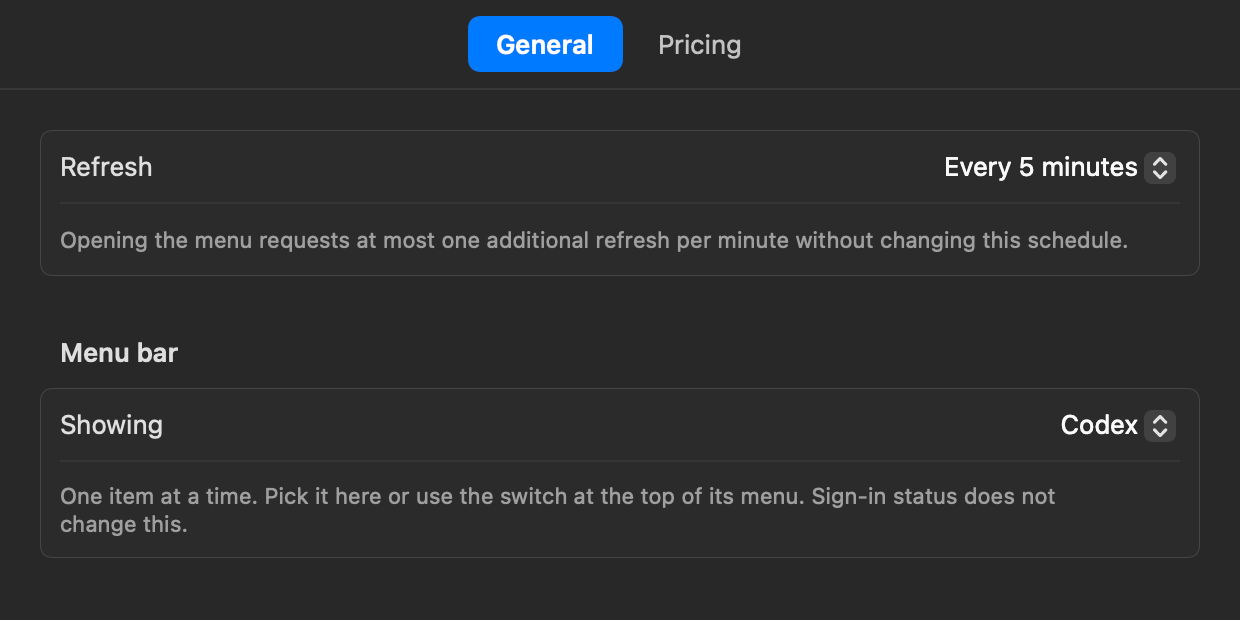
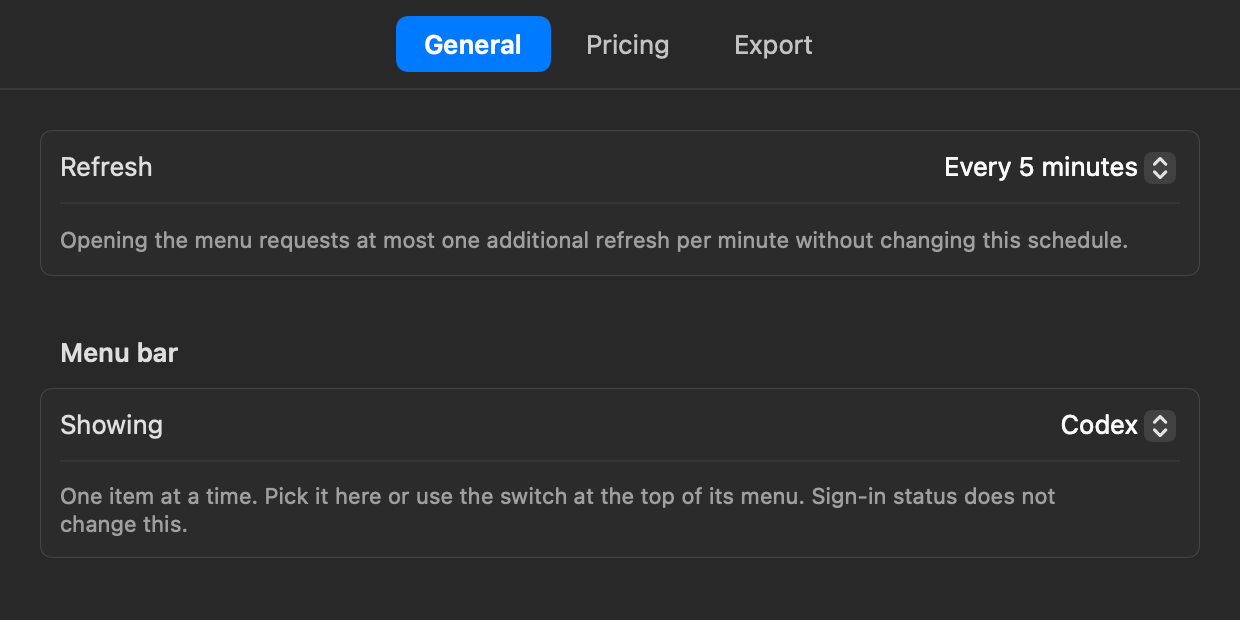
docs: refine bilingual READMEs and refresh settings screenshot (#41)
Tighten and align the English and Chinese READMEs, correct quota wording, and refresh the General settings screenshot.

Changed region(s): [[0.3065, 0.0, 0.6742, 0.1226]]

diff --git a/README.md b/README.md
@@ -1,5 +1,5 @@
 <p align="center">
-  <img src="Resources/AppIcon.png" alt="QuotaBar app logo" width="128">
+  <img src="Resources/AppIcon.png" alt="QuotaBar app logo" width="96">
 </p>
 
 <h1 align="center">QuotaBar</h1>
@@ -11,26 +11,24 @@
 
 A macOS menu bar app for checking Codex and Claude quota, reset times, local token usage, and estimated cost.
 
-[Install](#install) · [First launch](#first-launch) · [Quota](#how-quota-tracking-works) · [Cost](#how-cost-tracking-works) · [Reports](#exporting-a-usage-report) · [Development](#build-and-develop) · [Troubleshooting](#troubleshooting)
+[Install](#install) · [First launch](#first-launch) · [Quota](#how-quota-tracking-works) · [Cost](#how-cost-tracking-works) · [Reports](#exporting-a-usage-report) · [Pricing](#editing-model-prices) · [Development](#build-and-develop) · [Troubleshooting](#troubleshooting)
 
 <p align="center">
   <img src="docs/images/hero.png" width="620" alt="Claude and Codex quota cards rendered with sample data">
 </p>
 
-Screenshots and animations use sample data, including model names, quota, and costs. View the card in [dark](docs/images/interactions/main-dark.png) or [light](docs/images/interactions/main-light.png) appearance.
+Screenshots and animations use sample data. The app interface is in English; exported reports support Chinese and English. View the card in [dark](docs/images/interactions/main-dark.png) or [light](docs/images/interactions/main-light.png) appearance.
 
 ## Features
 
-- View remaining session and weekly quota, reset times, usage pace, and available credits for the selected provider.
-- Chart local tokens and estimated cost by day and model, including matching OpenCode and Pi Agent OAuth usage under Codex.
-- Price GPT-6 Astra Standard, Fast, and long-context usage with built-in rates, the [models.dev](https://models.dev) catalog, and editable Standard rates. Price edits are validated, and drafts stay available while the app is running.
-- Keep the last good quota reading after a failed refresh, with its age and a retry action.
+- Track session and weekly quota, reset times, usage pace, and available credits. Failed refreshes keep the last good reading.
+- View local tokens and estimated cost by day and model, including matching OpenCode and Pi Agent OAuth usage under Codex.
+- Estimate Standard, Fast, and long-context costs, including GPT-6 Astra. Edit Standard rates in Settings.
 - Export 7 or 30 days of saved usage as an offline HTML report with Chinese and English views.
-- Use keyboard shortcuts, Tokens / Cost switching, chart date selection, and macOS Reduce Motion.
 
 ## Install
 
-QuotaBar requires macOS 14 or later. The Homebrew cask and release ZIP currently support Apple Silicon only. Prebuilt releases do not require Xcode or Swift.
+Requires **macOS 14+**. Prebuilt releases and the Homebrew cask support **Apple Silicon** and do not require Xcode or Swift.
 
 Quota tracking uses OAuth credentials created by Codex CLI, Claude Code, or both on the same Mac. API-key-only sessions are not supported.
 
@@ -40,7 +38,8 @@ Quota tracking uses OAuth credentials created by Codex CLI, Claude Code, or both
 brew install --cask softmaxe/tap/quota-bar
 ```
 
-Update or remove it with:
+<details>
+<summary>Update or uninstall</summary>
 
 ```bash
 brew upgrade --cask quota-bar
@@ -53,7 +52,10 @@ To remove the app and its saved data:
 brew uninstall --zap --cask quota-bar
 ```
 
-### Manual download
+</details>
+
+<details>
+<summary>Manual download and first-launch security prompt</summary>
 
 Download the `arm64` ZIP from [GitHub Releases](https://github.com/softmaxe/quota-bar/releases), unzip it, and move `QuotaBar.app` to `/Applications`.
 
@@ -69,6 +71,8 @@ Releases are ad hoc signed, not notarized with an Apple Developer ID. If macOS b
 xattr -dr com.apple.quarantine /Applications/QuotaBar.app
 ```
 
+</details>
+
 ## First launch
 
 QuotaBar reuses OAuth credentials created by the official CLIs. It has no separate login flow. Sign in through each CLI you want to track:
@@ -78,11 +82,7 @@ codex login
 claude
 ```
 
-Then open QuotaBar:
-
-1. Click the menu bar icon to view quota and local cost.
-2. Use the tabs at the top of the card to switch between Codex and Claude. Quota details appear below the selected provider.
-3. Open **Settings** to choose a refresh interval or [edit model prices](#editing-model-prices).
+Open QuotaBar, click its menu bar icon, and select **Codex** or **Claude**. Open [Settings](docs/images/settings-general.png) to choose a refresh interval or [edit model prices](#editing-model-prices).
 
 If a provider is not signed in, choose **Copy command**, run the copied command in Terminal, then return and choose **Check sign-in**. Copying the command does not run it.
 
@@ -92,15 +92,20 @@ Reading Claude credentials may trigger a macOS Keychain prompt. If a manual **Re
 
 ### Quota windows and usage pace
 
-Each limited quota window shows the percentage left and its reset time. An unlimited session shows **Session ∞** and **No limit** instead of a countdown. Open the reset-time control and choose **Countdown** or **Clock time** for both limited windows. **Usage pace details** expands the reserve, deficit, and headroom calculation.
+Each limited quota window shows the percentage left and its reset time. Choose **Countdown** or **Clock time** in the reset-time control to update both limited windows. Unlimited sessions show **Session ∞** and **No limit**. Expand **Usage pace details** for reserve, deficit, and headroom.
 
-QuotaBar compares consumption with time elapsed. After three comparable weekly windows, it uses your recorded history for the weekly pace instead. Samples are kept for 56 days.
+QuotaBar compares consumption with time elapsed. After at least three comparable recorded weekly windows, history also informs the weekly pace. Samples are kept for 56 days.
 
-When a session or weekly window resets, the next open plays a brief bar animation lasting about 0.82 seconds. The headline immediately shows the new reading. The last reading and pending animation survive an app restart.
+After QuotaBar detects a session or weekly reset, the next open plays a brief bar animation while the headline shows the new reading. The app respects macOS Reduce Motion.
+
+<details>
+<summary>Quota reset animation</summary>
 
 <p align="center">
   <img src="docs/images/quota-reset.gif" width="560" alt="Brief quota reset feedback while the headline keeps the new reading">
 </p>
+
+</details>
 
 ### Refresh and recovery
 
@@ -112,6 +117,9 @@ Choose manual refresh or an interval of 1, 2, 5, 15, or 30 minutes in Settings. 
 
 A failed refresh keeps the last good quota and shows its age and recovery instructions at the top. The retry control shows the remaining wait when a cooldown applies. Local scanning has its own progress and **Retry local scan** action.
 
+<details>
+<summary>Sign-in and refresh-failure examples</summary>
+
 <table align="center">
   <tr><th>Sign-in guidance</th><th>Refresh failure with saved quota</th></tr>
   <tr>
@@ -120,17 +128,17 @@ A failed refresh keeps the last good quota and shows its age and recovery instru
   </tr>
 </table>
 
+</details>
+
 ### Menu bar and shortcuts
 
-The menu bar robot shows the selected provider. It turns red when either the session or weekly window has 10% or less left. It dims after a failed refresh and fades further when no data is available.
+The menu bar robot reflects the selected provider's quota and refresh status. It turns red when either the session or weekly window has 10% or less left. It dims after a failed refresh and fades further when no data is available.
 
 <p align="center">
   <img src="docs/images/menu-bar-icons.png" width="440" alt="Menu bar robot states: normal, running low, refresh failed, and no data">
 </p>
 
-The icon is Material Design Icons' `robot-excited`.
-
-The card uses a native popover. Tall content scrolls while the actions at the bottom stay visible. Each time you reopen the card, it starts with collapsed details at the current content height. Use these shortcuts while the card is open:
+The icon is Material Design Icons' `robot-excited`. The card scrolls when needed, keeps its bottom actions visible, and reopens with details collapsed. Shortcuts apply while the card is open:
 
 | Shortcut | Action |
 | --- | --- |
@@ -143,9 +151,7 @@ The card uses a native popover. Tall content scrolls while the actions at the bo
 <details>
 <summary>Mouse, tab, and motion behavior</summary>
 
-The equal-width provider tabs show a name and color dot. The selected tab has a highlighted background and a bold name. Hovering the other tab adds a subtle background and brightens its dot without making the name bold. Labels stay in place when you switch.
-
-The card opens on left mouse-down and closes immediately when you click the icon again. Right clicks toggle it on mouse-up. Custom buttons respond as you press them; tab selection settles within 180 ms, and disclosure feedback within 160 ms. Rows appear together without a stagger. Reduce Motion removes custom transitions while preserving the controls and their pressed and selected states.
+Provider tabs have equal widths and fixed label positions. The selected tab has a highlighted background and bold name; hover adds a lighter highlight. Left clicks toggle the card on mouse-down, right clicks on mouse-up. Buttons respond on press, and expanded rows appear together. Reduce Motion removes custom transitions while keeping pressed and selected states visible.
 
 </details>
 
@@ -155,9 +161,7 @@ QuotaBar calculates token and cost totals from local session data. It does not u
 
 ### Reading the chart
 
-Choose **Tokens** or **Cost** using the selector above the chart. The chart shows ten consecutive calendar days, while the totals cover the last 30 days. Hover to preview a day, click to hold that date, or use Left and Right Arrow when a date is focused. **Model breakdown** opens the complete model list for that day.
-
-Once a date is pinned, click another column or use the arrow keys to change it. Close and reopen the card to return to hover previews. Opening **Model breakdown** also keeps its date fixed while you inspect the rows.
+Choose **Tokens** or **Cost** above the chart. The chart covers ten calendar days; totals cover the last 30 days. Hover to preview a day, click to pin it, or use Left and Right Arrow when a date is focused. **Model breakdown** lists that day's models and keeps the date fixed. Reopen the card to resume hover previews. Switching units preserves the selected date.
 
 Missing information has a separate display from zero usage:
 
@@ -168,11 +172,16 @@ Missing information has a separate display from zero usage:
 | **—**, **Unpriced** | Usage is recorded, but no cost can be estimated from its model rates. |
 | **Partial estimate** | The amount includes priced usage only; unpriced usage is excluded. |
 
-Open **Settings → Pricing** to add missing rates for future usage. Changing units preserves the selected date and updates the bar heights and readings together.
+Add missing rates for future usage in **Settings → Pricing**.
+
+<details>
+<summary>Chart date previews</summary>
 
 <p align="center">
   <img src="docs/images/chart-hover.gif" width="560" alt="Chart date previews with token totals and a collapsed Model breakdown">
 </p>
+
+</details>
 
 ### Data sources
 
@@ -183,15 +192,11 @@ Open **Settings → Pricing** to add missing rates for future usage. Changing un
 | OpenCode | `$OPENCODE_DATA_HOME/opencode.db`, `$XDG_DATA_HOME/opencode/opencode.db`, or `~/.local/share/opencode/opencode.db` |
 | Pi Agent | `$PI_CODING_AGENT_SESSION_DIR`, `$PI_CODING_AGENT_DIR/sessions`, or `~/.pi/agent/sessions` |
 
-OpenCode data is included only when its `openai` provider uses OAuth and its account ID matches the current Codex account. Other providers, API-key sessions, and account mismatches are ignored. OpenCode totals do not affect quota bars.
-
-Pi Agent data follows the same rule. Only `openai-codex` assistant usage from a matching OAuth account is included. Pi Agent totals do not affect quota bars, and their cost is estimated from QuotaBar's model prices rather than treated as an OpenAI billing statement.
+OpenCode `openai` usage and Pi Agent `openai-codex` assistant usage count toward Codex totals only when they use OAuth with the current Codex account. Other providers, API-key sessions, and account mismatches are excluded. These local totals do not affect quota bars.
 
 ### Saved history
 
-The first scan of a large history may take time. QuotaBar stores usage in SQLite, recording the day, model, source tool, token counts, and estimated cost, along with identifiers and scan positions for deduplication.
-
-Deleting source sessions does not delete recorded usage, even after restarting QuotaBar. Records older than the chart's ten-day and totals' 30-day windows remain stored. Sessions deleted before QuotaBar scanned them cannot be recovered.
+The first scan of a large history may take time. QuotaBar saves dates, models, sources, tokens, and estimated costs in SQLite, with identifiers and scan positions for deduplication. Saved usage survives source-session deletion and app restarts, including records outside the chart and totals windows. Sessions deleted before scanning cannot be recovered.
 
 <details>
 <summary>Incremental scanning and database migration</summary>
@@ -204,7 +209,7 @@ On first use, QuotaBar copies any existing cost database from `~/Library/Caches/
 
 ### Pricing rules
 
-- Standard rates use manual overrides first, then the catalog, then the [built-in pricing table](Sources/QuotaBarCore/Cost/CostPricing.swift).
+- Standard rates use manual overrides first, then the [models.dev](https://models.dev) catalog, then the [built-in pricing table](Sources/QuotaBarCore/Cost/CostPricing.swift).
 - Astra falls back to its complete built-in row when a catalog entry omits cache or long-context rates.
 - Codex Fast usage uses a separate built-in table and ignores manual overrides and catalog rates. A Fast model without an entry stays unpriced.
 
@@ -220,39 +225,29 @@ Cost totals are estimates. Provider billing rules, cache accounting, and price c
 4. Choose **Export Report…** and select a destination. If the period has no saved usage, QuotaBar reports that before opening the Save panel.
 
 <p align="center">
-  <img src="docs/images/report-export.png" width="760" alt="Bilingual offline usage report rendered with sample data">
+  <img src="docs/images/report-export.png" width="760" alt="English view of the offline usage report, with a Chinese/English switch and sample data">
 </p>
 
-### Report contents
+The report is a single offline HTML file with a Chinese/English switch. It includes all eligible Codex, Claude, OpenCode, and Pi Agent usage already saved in SQLite, with daily usage, cost by model, token and cache composition, and expandable data tables.
 
-The report is one self-contained HTML file that works offline and supports Chinese and English. It covers every eligible source already stored in QuotaBar's SQLite history: Codex, Claude, matching OpenCode OAuth usage, and matching Pi Agent OAuth usage.
+Export reads saved data without refreshing quota, rescanning logs, updating prices, or making network requests. Costs retain their saved estimates; unpriced tokens are excluded from costs and pricing gaps are marked. Cache tokens are shown without inferring a separate cache cost.
 
-The page shows a daily usage line chart, stored cost estimates by model, token and cache composition, and expandable tables with exact token totals and displayed costs.
-
-### Snapshot and privacy
-
-Export reads saved data. It does not refresh quota, rescan session logs, update prices, or make model or network requests.
-
-- Costs keep the estimates saved when each record was scanned and can differ from a provider bill.
-- Unpriced tokens are excluded from the cost total. The report marks partial pricing coverage.
-- QuotaBar does not store cache cost as a separate USD amount, so the report does not reconstruct one.
-
-An exported file contains the selected period, capture time and timezone, source and model names, token counts, unpriced-token counts, and stored cost totals. Prompt, response, and reasoning text are not included. See [Usage report export](docs/usage-report-export.md) for the full data contract and developer checks.
+The file includes the period, capture time, timezone, sources, models, token counts, unpriced-token counts, and saved costs. It excludes prompts, responses, reasoning text, credentials, and account IDs. See [Usage report export](docs/usage-report-export.md) for the data contract and developer checks.
 
 ## Editing model prices
 
 Open **Settings → Pricing**. Rates are in USD per million tokens. Expand a model row to edit its one-hour cache write rate, long-context threshold, and rates above that threshold.
 
-The table lists supported API models and other models from your local history that have no available rate. It is not a complete catalog of every model you have used. Click a column heading to sort its values; the reset-order button restores the API model order and puts the most-used models first in **Others**.
+The table lists supported API models and unpriced models found locally. Click a column heading to sort; reset the order to restore the API model list and sort **Others** by usage.
 
 <p align="center">
   <img src="docs/images/settings-pricing.png" width="620" alt="Pricing settings with editable rates, expanded long-context fields, and per-model action menus">
 </p>
 
-- Rates must be finite numbers at least zero. A long-context threshold, when set, must be a positive whole token count. Invalid fields show an error and disable **Save**.
-- **Save** shows progress and a saved or failed result. A failed save keeps your edits. Switching settings tabs or reopening the settings window also keeps the draft while the app is running.
-- **Discard** returns to the last saved rates. To remove a manual override, open the model's **…** menu and choose **Restore default rate**, or **Clear custom rate** when no default exists, then save. These actions change the draft first.
-- Quitting with a valid draft offers **Save**, **Discard**, or **Cancel**. An invalid draft must be corrected before saving; **Cancel** returns to editing.
+- Rates must be finite and nonnegative; an optional long-context threshold must be a positive whole token count. Invalid fields disable **Save**.
+- **Save** shows progress and its result. Drafts survive failed saves, tab switches, and closing Settings while the app is running. **Discard** restores the last saved rates.
+- To remove an override, choose **Restore default rate** or **Clear custom rate** in the model's **…** menu, then save.
+- Quitting with a valid draft offers **Save**, **Discard**, or **Cancel**. Invalid drafts must be corrected before saving.
 
 <details>
 <summary>Invalid price example</summary>
@@ -269,7 +264,8 @@ Saved rates apply to newly recorded usage. Existing history keeps the prices use
 
 QuotaBar reads CLI credentials and parses local session records, but it does not write to CLI credential stores itself. A manual Claude credential recovery can launch Claude Code, which may update its own credentials. QuotaBar uses timestamps, model names, token counts, stable record IDs, and the account IDs needed to match OAuth sessions. Prompt, response, and reasoning text are not stored in QuotaBar's usage history or uploaded.
 
-The app stores its own data here:
+<details>
+<summary>Local storage paths</summary>
 
 ```text
 ~/Library/Application Support/QuotaBar/usage-history.json
@@ -278,6 +274,8 @@ The app stores its own data here:
 ~/Library/Caches/QuotaBar/model-pricing/
 ~/Library/Preferences/com.quotabar.app.plist
 ```
+
+</details>
 
 Codex quota requests use the `chatgpt_base_url` in `$CODEX_HOME/config.toml`, if set, or the default ChatGPT endpoint. QuotaBar also contacts `auth.openai.com` to refresh Codex tokens, `api.anthropic.com` for Claude quota, and `models.dev` for model pricing. It does not send local session records to these services.
 
@@ -305,7 +303,8 @@ make app
 
 </details>
 
-### Common commands
+<details>
+<summary>Development commands</summary>
 
 | Command | Purpose |
 | --- | --- |
@@ -323,7 +322,10 @@ make app
 
 `make probe` prints account and usage metadata. Review its output before sharing it.
 
-### UI previews and screenshots
+</details>
+
+<details>
+<summary>UI previews and screenshots</summary>
 
 To preview interactions with sample quota and cost data, run:
 
@@ -338,11 +340,16 @@ Use `signed-out` or `stale` instead of `loaded` to inspect those states. Preview
 
 Asset generation requires ffmpeg. The HTML report image also needs Node.js, Playwright, and a Chromium browser; see [report development checks](docs/usage-report-export.md#verification). The [implementation notes](docs/design-implementation.md) describe the rendering commands and verification limits.
 
-### Packaging and releases
+</details>
+
+<details>
+<summary>Packaging and releases</summary>
 
 To create a test package, run **Build and Release** from the repository's **Actions** tab and select the branch to build. Manual runs upload a development ZIP and SHA-256 file as workflow artifacts without publishing a release.
 
 To publish a release, push a tag matching `vMAJOR.MINOR.PATCH`. The tag supplies the app's version. The workflow tests and packages an `arm64` ZIP, verifies its signature, version, architecture, and checksum, publishes the GitHub Release, and then updates `softmaxe/homebrew-tap`. Tagged runs require the repository's `TAP_GITHUB_TOKEN` secret. Check both **Release** and **Update Homebrew tap** before treating the release process as complete.
+
+</details>
 
 ## Troubleshooting
 
@@ -364,10 +371,8 @@ To publish a release, push a tag matching `vMAJOR.MINOR.PATCH`. The tag supplies
 - Cost figures come from local logs and are not billing statements.
 - OpenCode does not save the authentication method for each historical request. QuotaBar cannot reconstruct an OAuth to API key to OAuth switch that happened while it was not running.
 
-## License
+## License and acknowledgements
 
 QuotaBar is licensed under [AGPL-3.0](LICENSE). Code adapted from CodexBar remains available under its MIT terms. See [THIRD_PARTY_NOTICES.md](THIRD_PARTY_NOTICES.md).
-
-## Acknowledgements
 
 QuotaBar is a rebuild of [CodexBar](https://github.com/steipete/CodexBar) and uses its ideas and implementation details. Copyright © 2026 Peter Steinberger.
